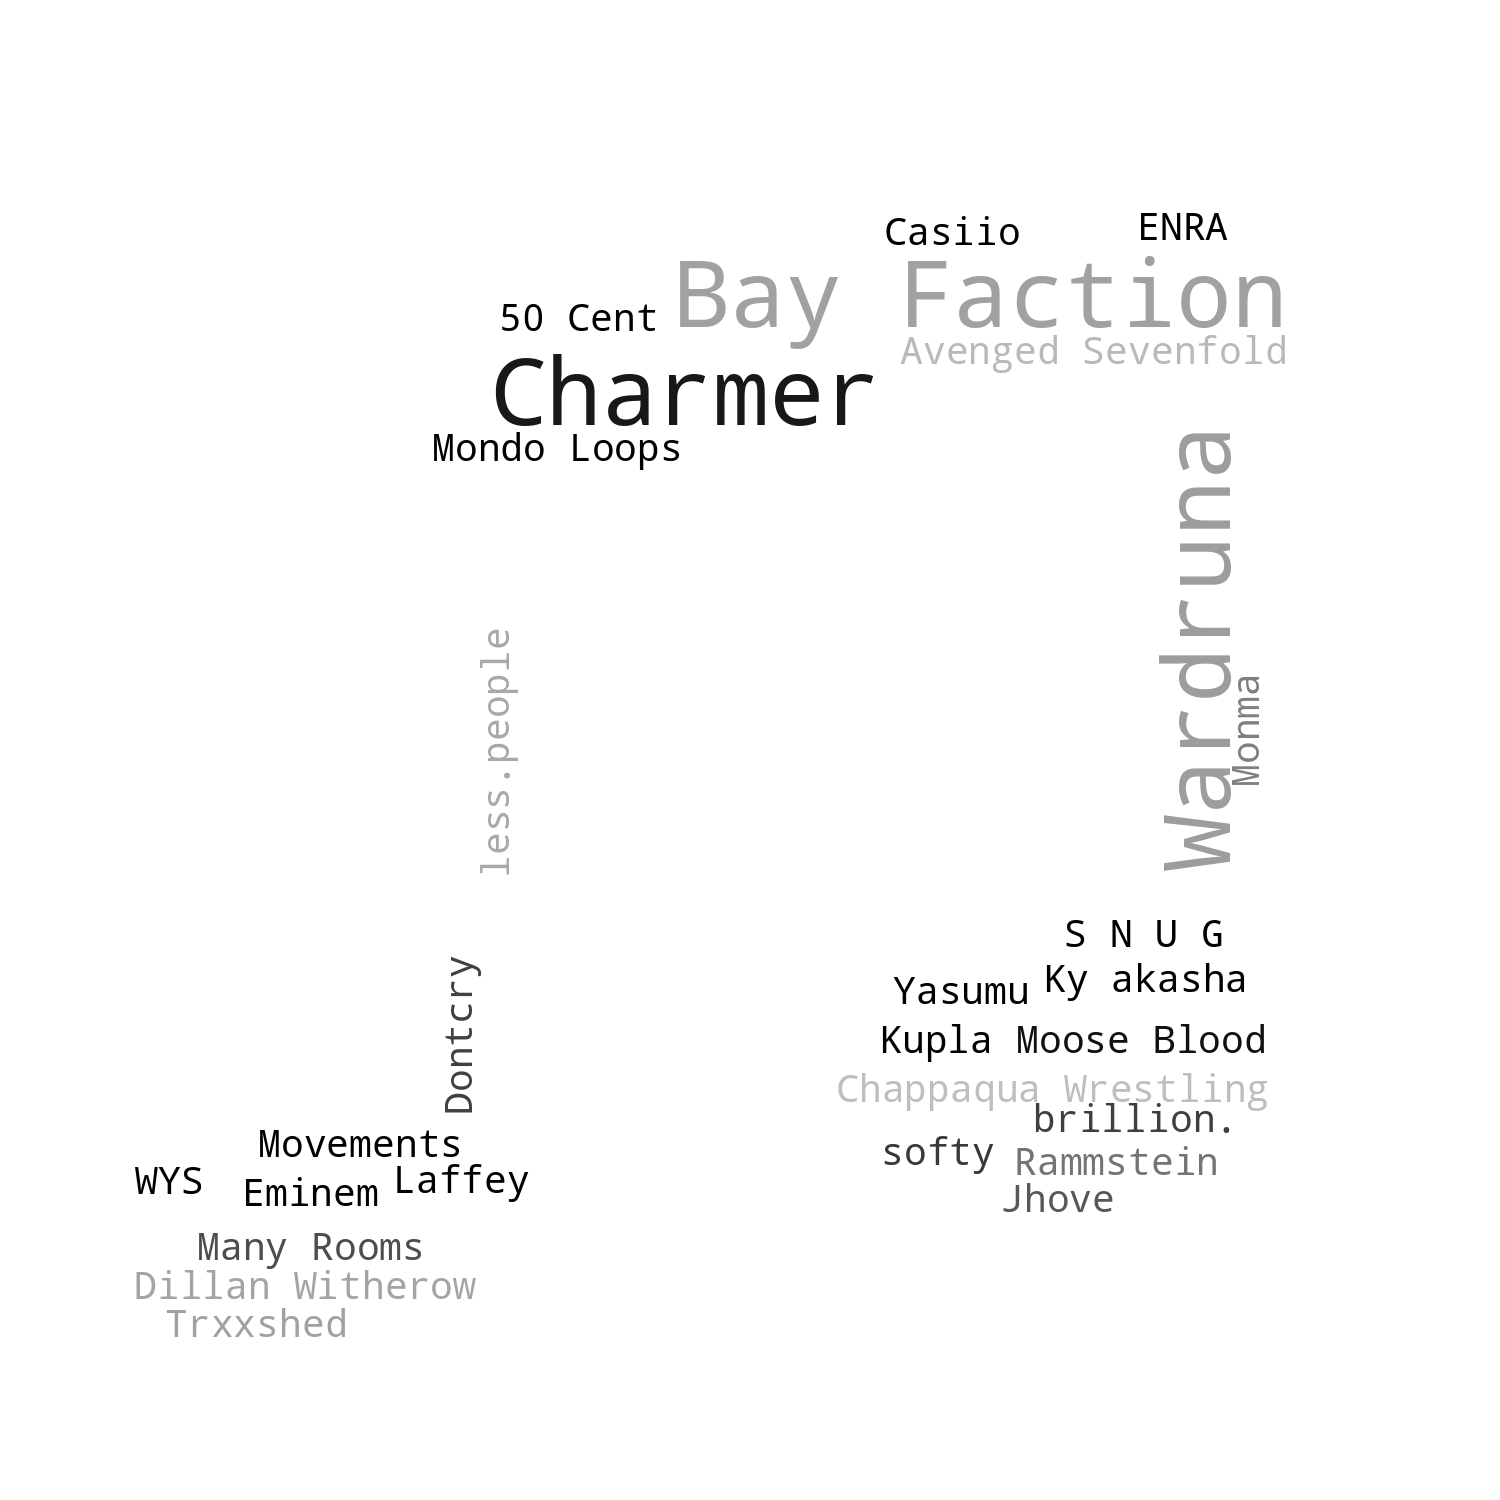
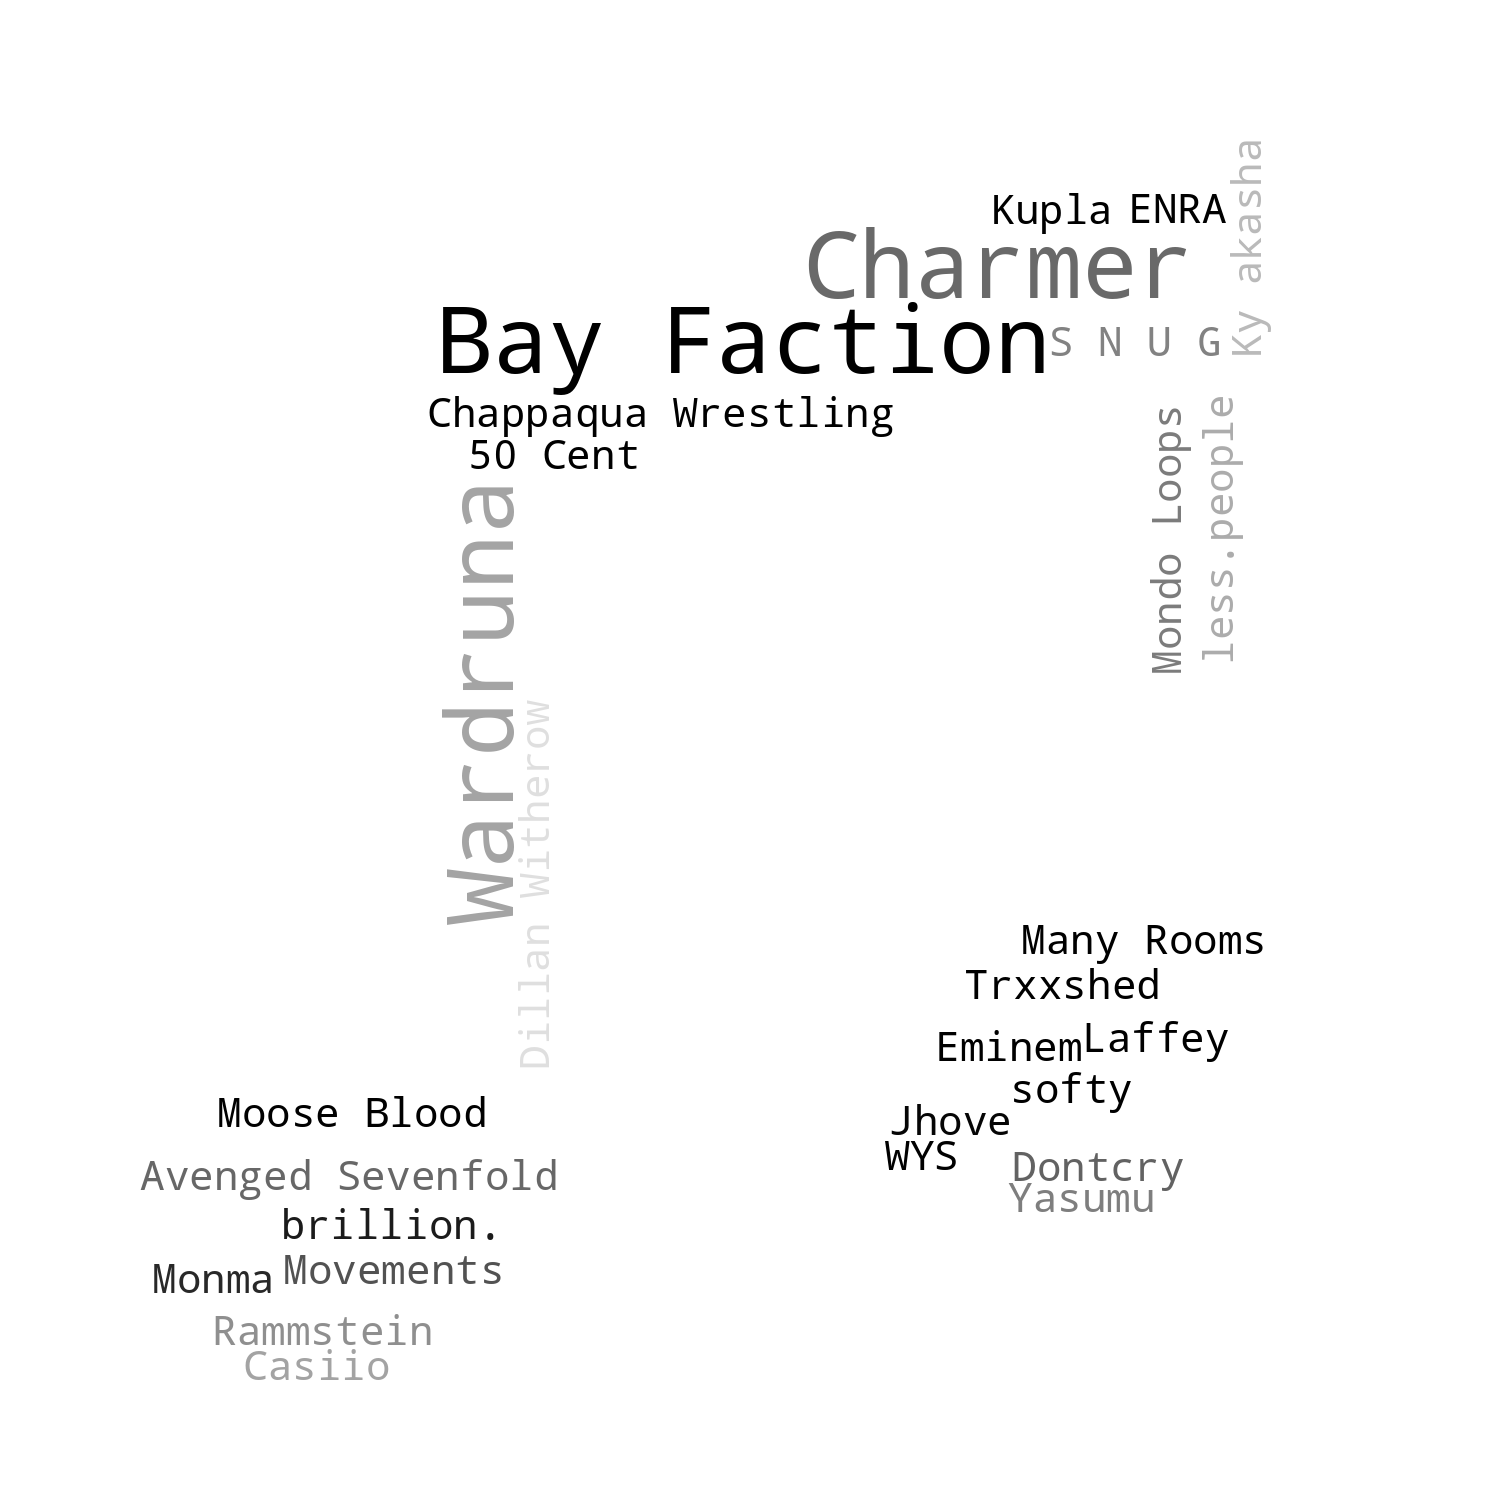
Mask outline converted to plain SVG

diff --git a/templates/index.html b/templates/index.html
@@ -3,33 +3,12 @@
 {% load static %}
 
 <head>
-    <style>
-        .img-overlay{
-            position: relative;
-            display: inline-block;
-            transition: transform 150ms ease-in-out;
-        }
-        .outline{
-            display: block;
-            max-width: 100%;
-            height: auto;
-        }
-        .content{
-            position:absolute;
-            top: 0;
-            left: 0;
-        }
-        .img-overlay:hover{
-            transform: rotate(15deg);
-        }
-
-    </style>
 </head>
 
 <body>
-    <div class="img-overlay">
-        <img class="content" src="{% static 'note.svg' %}" />
-        <img class="outline" src="{% static 'artists.png' %}" />
-
-    </div>
+    
+    <!--<img class="content" src="{% static 'single.svg' %}" width="600" height="600" />
+    <img class="outline" src="{% static 'genres.png' %}" width="600" height="600"/>-->
+    
+    
 </body>

diff --git a/art/views.py b/art/views.py
@@ -33,7 +33,7 @@ def index(request):
 
     # Generate word cloud from top artist/genres names
     cloud.generateWordCloud(top_artists_list, "note-mask", "artists")
-    cloud.generateWordCloud(top_genres_list, "single-mask", "genres")
+    #cloud.generateWordCloud(top_genres_list, "single-mask", "genres")
 
     return render(request, 'index.html')
 

diff --git a/art/cloud.py b/art/cloud.py
@@ -24,12 +24,9 @@ def generateWordCloud(word_list, mask_name, out_name):
         color_func=img_colors
     ).generate_from_frequencies(words)
 
-    '''
+    
     svg = wc.to_svg()
-    f = open("testttt.svg", "w+")
-    f.write(svg)
-    f.close()
-    '''
+    print(svg)
 
     # Output wordcloud to assets
     wc.to_file(OUT_PATH)
